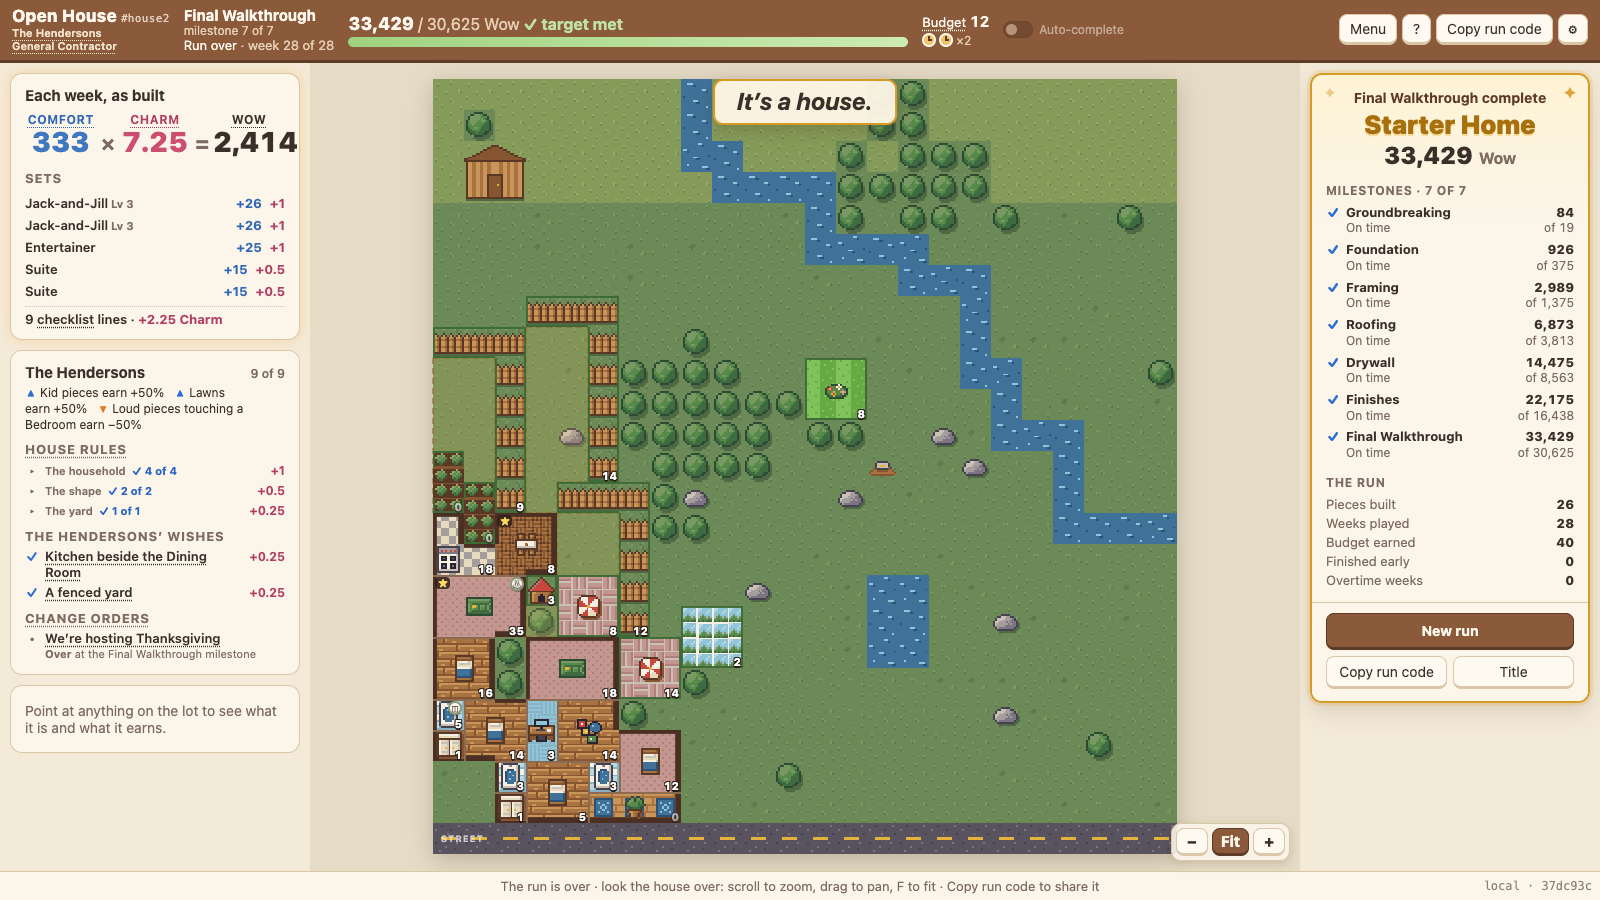
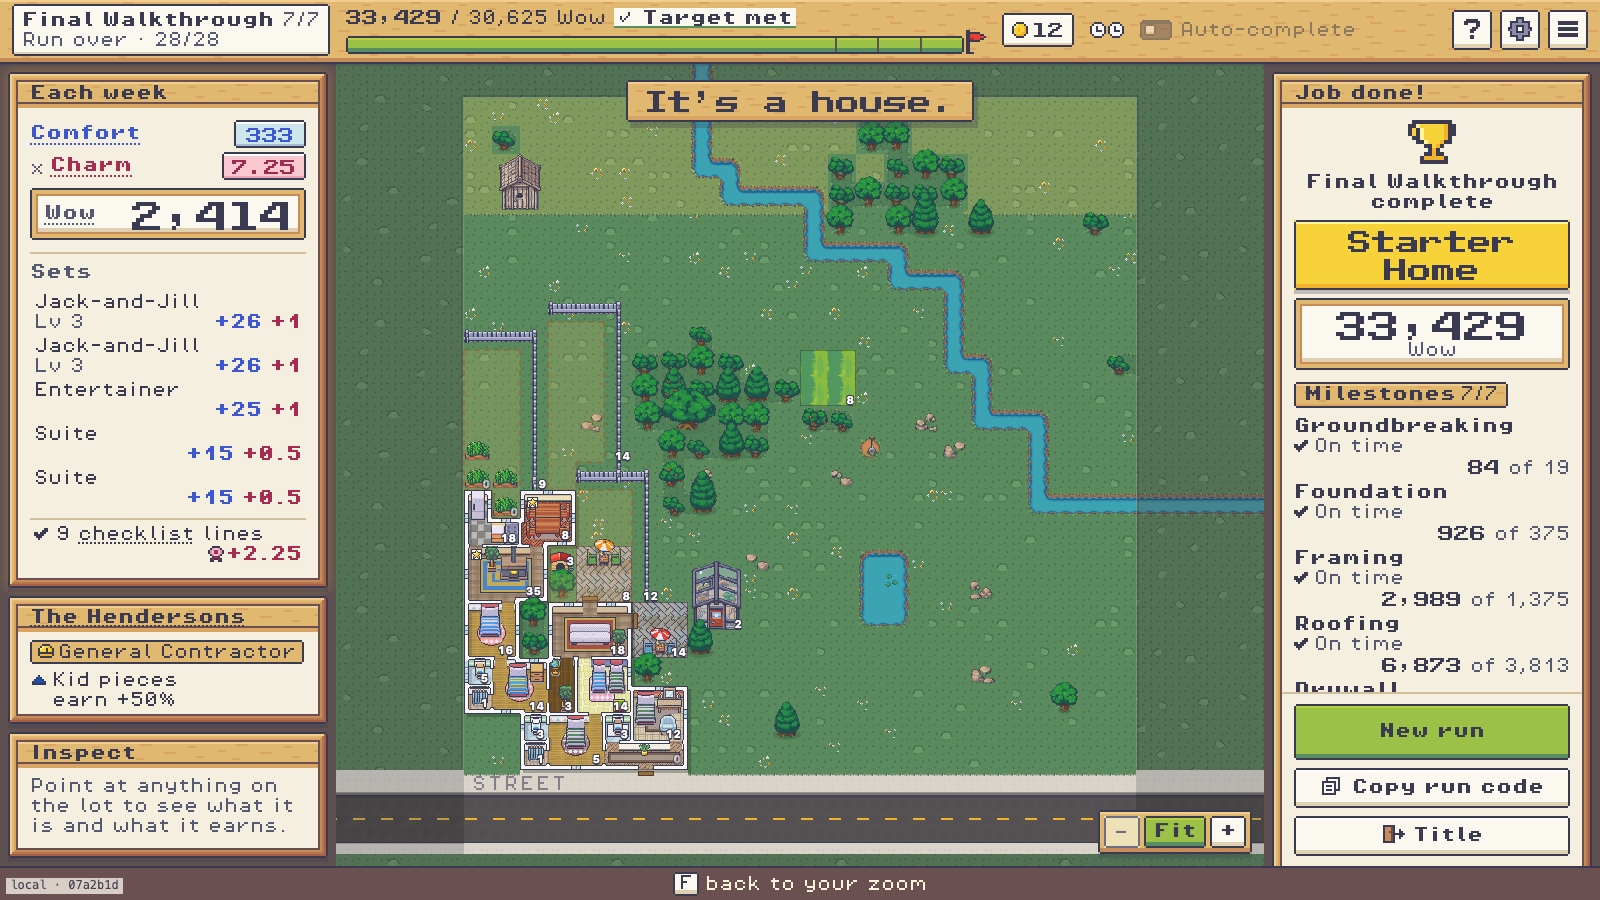
Docs: D-110 and D-111 after the visual checks, and the finished house in the new look
- D-110: a dated note on what the three visual reviews and their
  re-check found after the fix pass, in six configs. The 1280×720 aim
  is met in the readable font but not yet in the pixel font: the
  numbers, then what's still short (the left column with nothing looked
  at and late in a run, larger windows, members' notes, host badges,
  smaller items, and what's from before M4). Its left-column bullet and
  Costs line say so, in place of "met in both fonts".
- D-111: a dated note: its art was checked in the same configs, with
  nothing to fix.
- D-109: its UI bullet's note gives the 1280×720 re-check.
- docs/playtests/m4-finished-house.png: retaken in M5a's look at
  1600×900, at Fit. The same greedy win as before the merge: seed
  house2, the Hendersons with the General Contractor, played by the
  sim's greedy bot, 33,429 Wow against 30,625, every milestone on time
  and all nine checklist lines held. Its run code is in PR #17's body.

diff --git a/docs/decisions.md b/docs/decisions.md
@@ -1252,6 +1252,8 @@ Build with simple shapes and labels until the core loop is fun, then do an art a
 **Costs:** 50 new LimeZu cuts, each with its record in `assets/licenses.json` (`CREDITS.md` credits LimeZu already), and one more drawing of ours. A 2×2 room's north wall holds the bed and one piece, so Grandma's Room shows her vanity or her curio cabinet, rarely both, and no nightstand. Where Renfield's Room lies one cell deep and a door's walkway takes its floor (about one such room in seven, in random houses), there's no room for the cot: it shows the candles and the spider. The level badge is left out only where no badge fits: at 1×, a one-row room that also shows a fixture's badge and the ⚠ on a screen of ratio 1; Renfield's Room and Rowan's Studio at 0.5×; a one-row room a Treehouse's roof fills. A lone Driveway tile parks no car.
 **Changes:** None to settled decisions. It extends D-100 (Accepted): its Furniture bullet gains the members' rooms, its Yard pieces bullet the packs' own shapes, the lone Fence tile and where the car parks, and its Labels bullet the level badge. D-098 (Accepted): the crews' icons and the carets join its icons.
 
+**2026-11-08 (the visual checks), for playtest 4:** checked in D-110's six configs, with nothing to fix: the seven members' rooms at all four turns, bare and with Bunk Beds, Soundproofing or Blackout Curtains; the Nursery growing into the Kids' Room; Fences of one to eight tiles and Driveways of one to six (rows, L's, T's, a block) as they're clicked out, built and carried by the Moving Truck, at 0.5× to 2× and Fit, with their labels near the lot's top edge; the parked car; and Renovate's outline, its labels and the stars at levels 1 and 2, at 1×, 2× and Fit. The candles and the spider animate as the Fireplace does, so they hold still under Reduce motion and under a sheet over the board (`house.css`, `terrain.css`). The board's open items are D-110's host badges.
+
 ### D-110 · M4's screens in the pixel UI
 **Status:** Proposed · 2026-11-08, with the M4 pull request, after it merged `develop` (M5a). Implementation details within D-098 and D-109; for playtest 4.
 **Decision:**
@@ -1271,10 +1273,10 @@ Build with simple shapes and labels until the core loop is fun, then do an art a
   - On a window wider than 1500 px a held line shows its "+0.25"; on a narrower one (280 px columns), a Charm icon, with the value in its tip. The plank counts the lines held on a window wider than 1760 px, where it has room beside the longest client's name; the score panel's checklist row counts them on every window.
   - The tastes are a row each, marked up, down, or a dot for neither. On a window under 800 px tall they fold into one row, "Likes and dislikes". House-rule groups fold as D-109 says; a fold row shows its count with a check, and never takes focus on a click.
   - A change order's reward reads coin first, struck through once it's broken or missed. Only a play that would break a restriction takes the warning's tint: a resolved order's cross, struck name and result word say the rest.
-- **The left column** never scrolls as a whole: the score panel keeps its height, and the checklist and the inspect panel share the rest, each scrolling inside its own body, with the inspect panel's plank always in view. While a play is being looked at, the inspect panel comes first (D-109). The checklist keeps its plank and two rows (56 UI px), and brings into view the rows the play flips, with a line beside them, or else the house rules' first two rows.
+- **The left column** is laid out not to scroll as a whole: the score panel keeps its height, and the checklist and the inspect panel share the rest, each scrolling inside its own body, with the inspect panel's plank always in view. While a play is being looked at, the inspect panel comes first (D-109). The checklist keeps its plank and two rows (56 UI px), and brings into view the rows the play flips, with a line beside them, or else the house rules' first two rows.
   - On a window under 800 px tall, the score panel's sets and budget line hide while a play is looked at: the 820 px rule M4 built for D-109's left column is D-098's 800 px breakpoint now. With nothing looked at, the idle inspect panel gives way first, down to its plank, and the checklist keeps 44 UI px. In the pixel font the score panel's suggestion for a first set is "No sets yet." with the suggestion as its tip, since it would take eight of the column's lines in week 1, and a card or piece under the pointer then pushed Inspect off the window. While a play is looked at, the checklist keeps 84 UI px in the pixel font, whose rows are two or three lines tall.
   - On a 1280×720-class window (1500 px wide or less, 800 px tall or less), a line a play would turn on leaves out its progress, which the play meets, so the row above it stays in view; while a play is looked at, so does a line it leaves as it was (a change order keeps its status).
-  - The aim at 1280×720 while placing: the score panel, at least two checklist rows, and the inspect panel's preview in view, in both fonts. *2026-11-08, the visual checks:* met in both fonts, with the column never scrolling as a whole.
+  - The aim at 1280×720 while placing: the score panel, at least two checklist rows, and the inspect panel's preview in view, in both fonts. *2026-11-08, the visual checks after the fix pass:* met in the readable font, except for a Renovation and the Nursery (one row each), but not yet in the pixel font. The note below has the numbers.
 - **First-time hints** (D-045, D-077's note) are paper notes with a wood plank and the help icon, by the panel each explains, on whole device pixels and inside the window (`first-hint-place.ts`): the first week, the checklist, Complete early, the shop, a fixture, a change order, and an arrival. A note by the checklist that's taller than the room below it rises until it fits, rather than scroll its text in a sliver. They never take focus. Got it dismisses one for good, and Settings shows them again. They're `FirstHints.tsx`; `Hints.tsx` stays D-098's controls strip.
 - **The controls strip** (D-098) adds a change order's keys (Enter accepts, Esc or D declines), a pack's clicks (click a tile to add it, and again to take it off), and a pending Renovation ("renovate it" on Enter), which has nothing to turn: the strip leaves out R, R does nothing, and the Rotate button is off.
 - **The board's labels** (D-098): a pack's ghost label is two short lines, its change to the week's Wow with how many tiles are out ("3 of 8 tiles"), then "Click to start" or "End week to build"; the next tile's own chip says what a click there would do. Renovating, the room's label names the level it would reach and the change to the week. A stack of labels takes as many rows above its cells as it is tall (`geometry.ts` labelRows), so near the lot's top edge, at 0.5× and Fit, it drops below its cells rather than run off the board. These labels keep the ▲, ▼ and ✕ that M5a's labels use, which the pixel fonts lack (a known gap in both). A popup that would be cut off at the side of the board's view (a room's "Renovated · level 1" at the lot's edge at 1280×720) is nudged inside it, as the labels are.
@@ -1287,8 +1289,21 @@ Build with simple shapes and labels until the core loop is fun, then do an art a
 - *Open for the team:* client portraits. LimeZu's premade Modern Interiors characters (a pack already cleared) could put a face on the job board and the change-order sheet. The default is none for playtest 4: the screens work with names, the lot map and text, and portraits could come with the juice pull request or M5b.
 
 **Why:** M4 was built alongside M5a, in the old look, and merged after it (D-097's juice note). Playtest 4 should try M4's game in the interface the team approved in playtest 5a, not in two looks side by side. Each default follows D-098's rules: one lime button per view, icons for the glyphs the fonts lack, sheets that hold the keyboard, and whole device pixels.
-**Costs:** the pixel font is wide (D-098's Costs). A 280 px column holds about 19 characters a line, and at 1280×720 the Hendersons' checklist needs about 2.5 times the space the column has, so it leans on folding and scrolling: there, in the pixel font, the crew's chip (two lines for the General Contractor), the folded tastes and the house rules' tag fill its first rows, and a line a play flips, or else the house rules' first two, scroll into view. While a play is looked at there, the lines it doesn't flip leave out their progress. The Hendersons' contract card needs about 660 px in the pixel font, more than a 1280×720 window gives it, so its middle scrolls.
+**Costs:** the pixel font is wide (D-098's Costs). A 280 px column holds about 19 characters a line, and at 1280×720 the Hendersons' checklist needs about 2.5 times the space the column has, so it leans on folding and scrolling: there, in the pixel font, the crew's chip (two lines for the General Contractor), the folded tastes and the house rules' tag fill its first rows, and a line a play flips, or else the house rules' first two, scroll into view. While a play is looked at there, the lines it doesn't flip leave out their progress. Even so, at 1280×720 in the pixel font the checklist shows no whole row while nothing is looked at or late in a run, and fewer than two for some plays (the note below). The Hendersons' contract card needs about 660 px in the pixel font, more than a 1280×720 window gives it, so its middle scrolls.
 **Changes:** None to settled decisions. It extends D-098 (Accepted): notes dock in any sheet over the board, its 800 px breakpoint replaces the 820 px M4 used for the left column, and on a window under 800 px tall in the pixel font the score panel's suggestion for a first set becomes a tip. D-109 (Proposed): its UI bullet points here.
+
+**2026-11-08 (the visual checks), for playtest 4:** three reviewers checked these screens, the HUD and the board in six configs: 1920×1080 and 1280×720 at a devicePixelRatio of 1, and 1724×962 at 2, each in the pixel and the readable font. A fix pass followed (the bullets above include it), then a second check. The job board and the crew pick, the change order, How to play, the hints, the inventory, the Menu and the board's labels and popups passed, but for the smaller items below. What's still short:
+- **The left column at 1280×720 in the pixel font:**
+  - Placing, 20 of 21 week-1 plays (every client and crew) show two to four whole checklist rows; before the fix pass they showed none or one. Plays that turn a line off or flip a tall row show fewer: none for milestone 3's Dining Room, which turns off Under one roof and Cozy (the flipped row alone is taller than the box), and one for a second Kitchen, the Nursery, Dale's week-1 Home Office, and his Garage that breaks Big deadline. Keeping the checklist at 84 UI px cuts off the foot of the inspect panel's preview, its "This week" total, in 8 of the 21 plays, where it was whole before.
+  - With nothing looked at, no row shows whole: the crew's chip, the folded tastes and the house rules' tag fill the box.
+  - Late in a run, when the change orders, the arrivals and the end come, the score panel's sets and budget line take up to 612 px of the column's 656, and the checklist shows no whole row in any of 19 such states over the five clients' runs. In one of Dale's (seed `sw-d1`, the Architect) the column overflows by 80 px at the last change order and by 124 px on the won screen, so it scrolls as a whole and the inspect panel leaves the window. These numbers were the same before the fix pass.
+  - The readable font at 1280×720 shows one or two rows with nothing looked at and one to four late in a run, with no overflow. 1920×1080 is fine in both fonts.
+  - Ways out, for after playtest 4: on a short window, show only the score panel's equation while no play is looked at, or cap the panel and scroll its sets; keep the inspect panel's total in view; show a flipped row as its name and whether it turns on or off.
+- **The pixel font on larger windows:** since the fix pass, a play that flips nothing brings the house rules' first rows into view, past the tastes, so placing a Lawn at 1920×1080 scrolls "Lawns earn +50%" out of view. A Renovation's preview shows no whole row at 1920×1080 and 1724×962, and at 1724×962 about half the week-1 plays show one row or none.
+- **The inspect panel:** a member's notes ("The twins' room: it counts as a Bedroom…") come after the card's kind and effects, so they're out of view while its card is only hovered. They show while it's being placed, cut short at 1280×720 in the pixel font.
+- **Host badges while installing:** at 0.5× a badge moved off another can end up over the next room (the Closet's ±0 over a Bedroom), or, in a block of one-cell rooms, touch a digit. Hovering a host whose preview marks a neighboring host moves the other badges, and can put one on the preview's + mark. The install label covers the badges of the hosts above it, and stays there while an install is pending.
+- **Smaller:** dismissing a note docked in the change order leaves the keyboard's focus on the page, not the sheet (Tab brings it back). Demolishing doesn't mark or bring into view the checklist lines it would flip, nor the score panel the sets it would break; the inspect panel lists both. The Requirements tip draws its ⚠, from the rules' glossary, in the system font.
+- **From before M4, left as they are:** the build stamp covers the left column's foot at 1280×720 (D-098's corner, chosen to stay clear of End week); a weekly Wow of four digits runs onto its plaque's frame at 1280×720 in the pixel font; and a click on a cell that can't take a pending play drops the play, a pending Renovation included.
 
 ### D-109 · M4b rules structure: change orders, arrivals, and crews
 **Status:** Proposed · 2026-11-07, with the M4 pull request. Details within D-103, D-012, and Appendix A · M4b; numbers for the sim and playtest 4.
@@ -1310,7 +1325,7 @@ Build with simple shapes and labels until the core loop is fun, then do an art a
 - **Debug ops:** force a change order (offered now, running through the current phase) or a client's arrival (its cards now, once).
 
 - **The UI** (2026-11-07): the left column fits 1280×720 and up: house-rule groups whose lines all hold fold into one row (they open while a line in them flips), and while a play is being looked at, Inspect comes first. A source with several earn lines names what each is for ("Count Vladislav (Dark pieces)"). A demolition's preview names the sets it would break; a set that re-forms from other pieces isn't counted. The change-order sheet takes its keys only after a short pause (so an Enter meant for End week can't answer it), and stamps the answer before the shop opens. Orders a milestone resolved stay in the checklist panel with their result until the next phase's first tally, so skipping the tally never hides them. An arrival's banner doesn't hold up the week.
-  - *2026-11-08 (M4 merged with `develop`):* these screens are in M5a's pixel UI now, with these rules kept (D-110). The left column's short-window rule moved from 820 px to D-098's 800 px. Its aim at 1280×720 while placing: the score panel, at least two checklist rows and the inspect panel's preview in view, in both fonts.
+  - *2026-11-08 (M4 merged with `develop`):* these screens are in M5a's pixel UI now, with these rules kept (D-110). The left column's short-window rule moved from 820 px to D-098's 800 px. Its aim at 1280×720 while placing: the score panel, at least two checklist rows and the inspect panel's preview in view, in both fonts. Re-checked at 1280×720 after the merge's fix pass: met in the readable font, except for a Renovation and the Nursery (one row each). In the pixel font, 20 of 21 week-1 plays show two to four rows, plays that turn a line off show one or none, and with nothing looked at, or late in a run, no row shows whole (D-110's note has the numbers).
 
 **Why:** the plan's M4b, D-103, and the sim's needs. The last-phase rule is new: without it, the offer after milestone 6 paid budget at the end of the run.
 **Changes:** jam-scope.md's change orders (the Twins and Grandma's moving in are arrivals now, D-103). Appendix A · M4b's skip rules (free space isn't checked).
